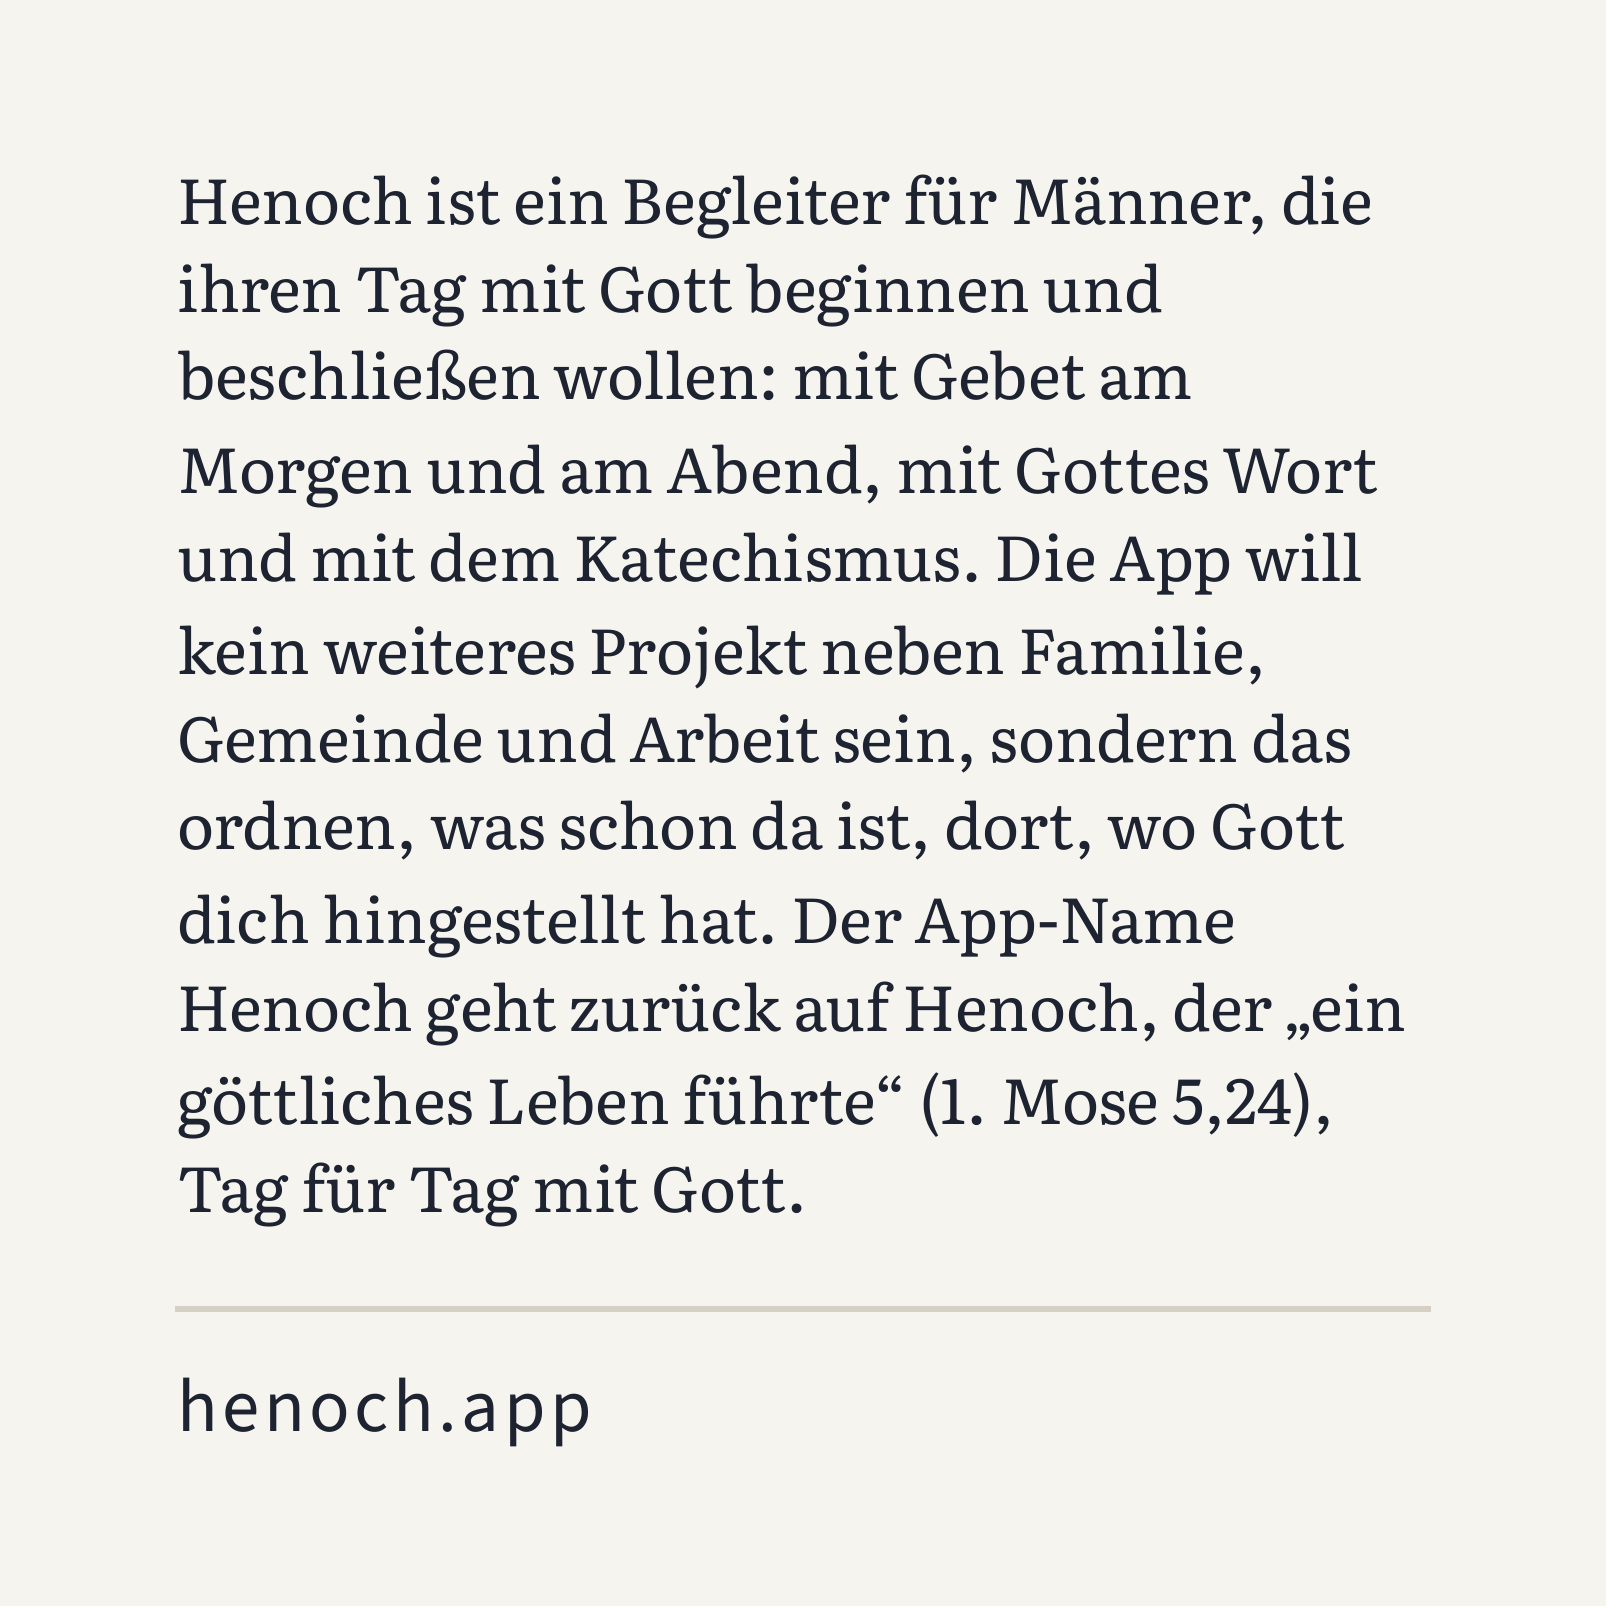
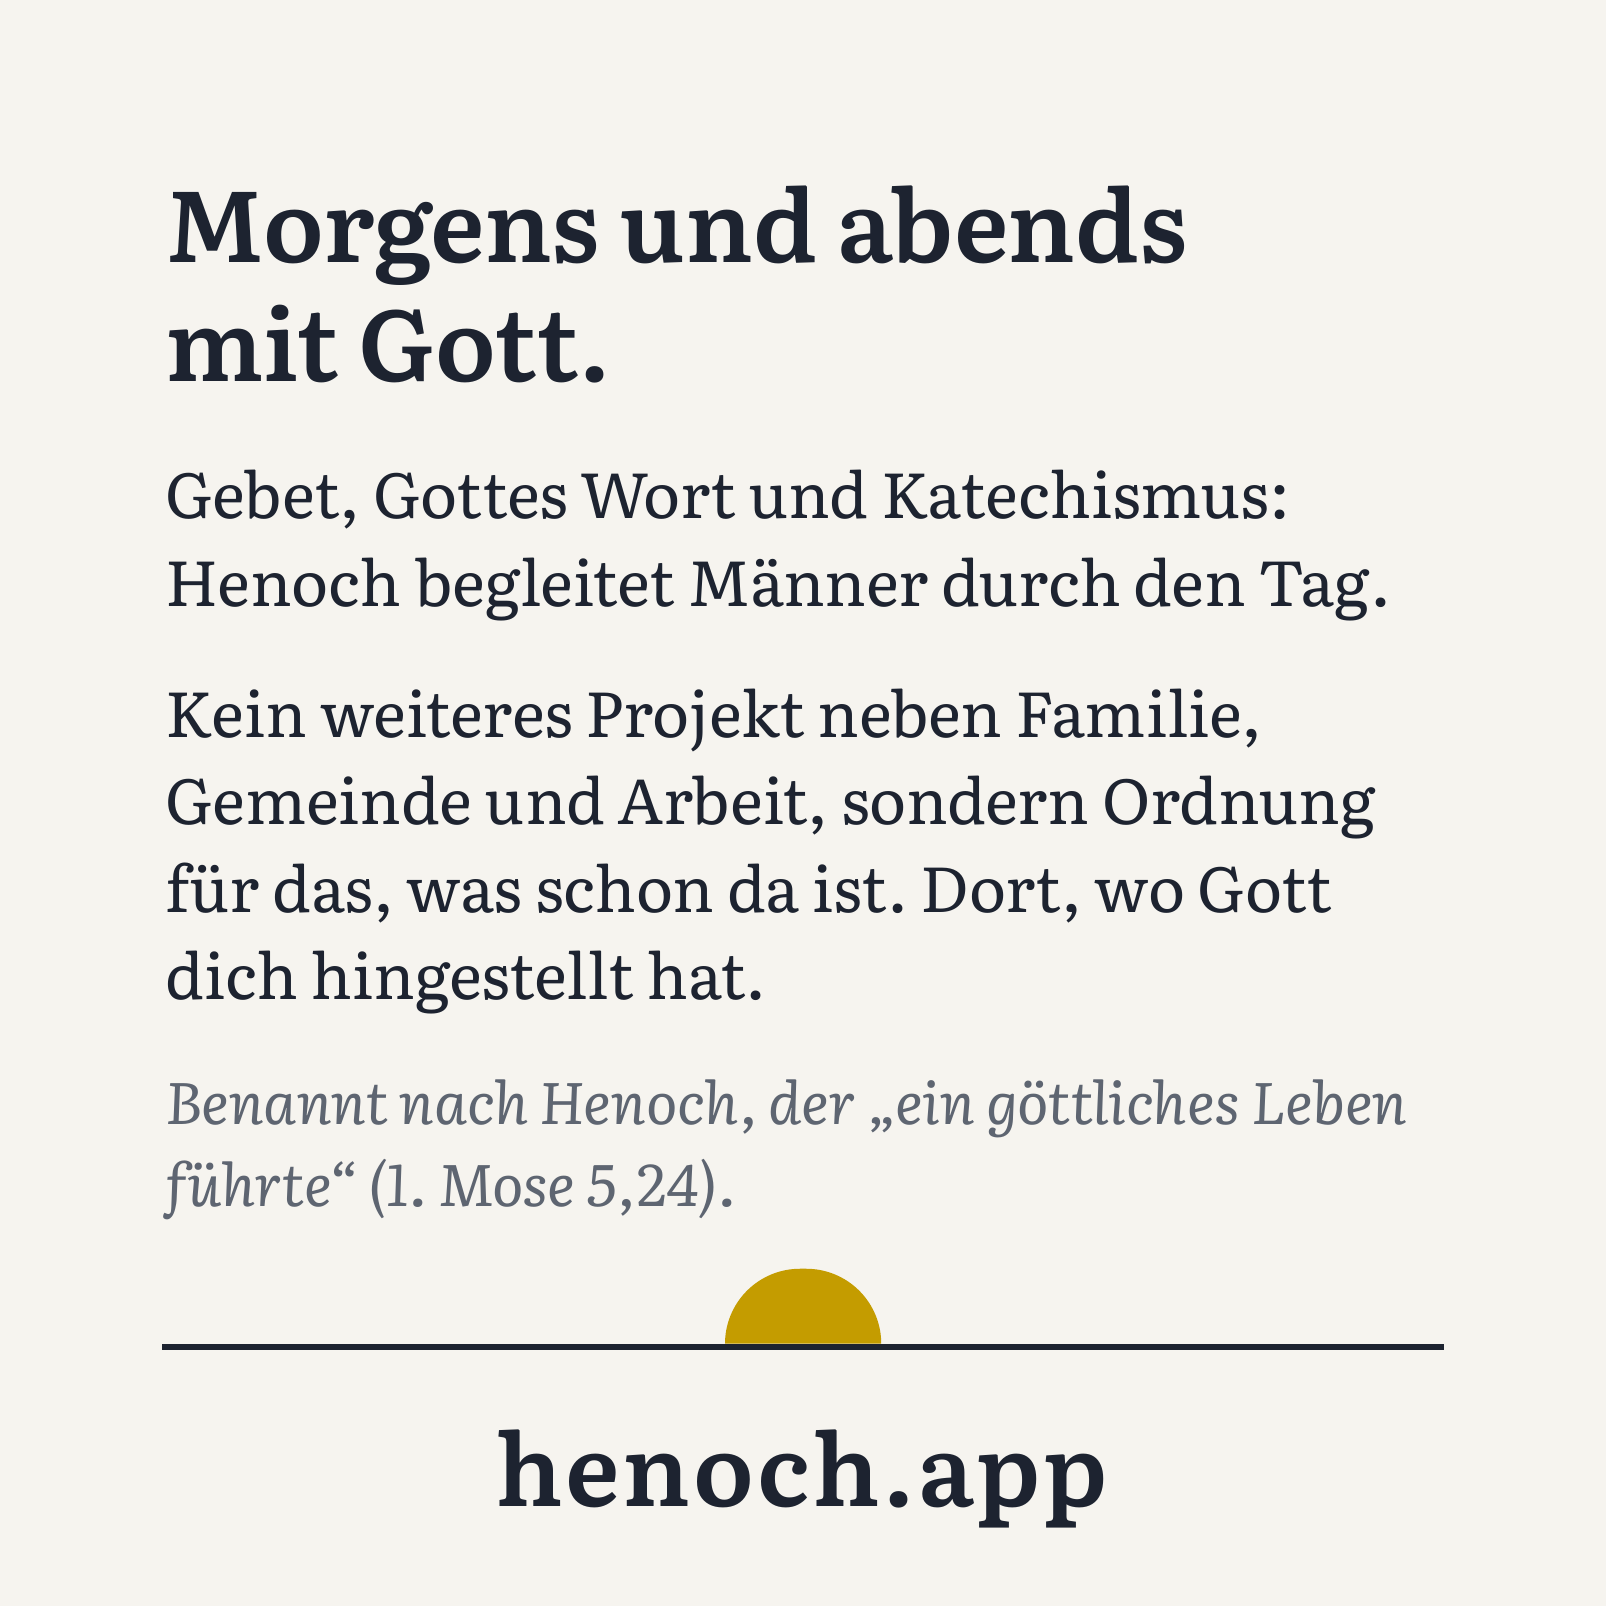
Visitenkarte: Rückseite mit Text neu gefasst, Adresse unter Horizont und Sonne
Claude-Session: https://claude.ai/code/session_01JETNZ2BbFd9PaqHXcpm5eH

Changed region(s): [[0.0933, 0.2799, 0.9017, 0.8396], [0.0933, 0.0933, 0.8396, 0.2488], [0.1244, 0.8706, 0.6841, 0.9639]]

diff --git a/docs/visitenkarte/visitenkarte.html b/docs/visitenkarte/visitenkarte.html
@@ -6,6 +6,7 @@
 <title>Henoch Visitenkarte</title>
 <style>
 /* Square business card for Vistaprint: 65 × 65 mm trim with 1.5 mm bleed on every side. Page 1 is the front, page 2 the back. */
+@font-face { font-family: 'Literata'; font-style: italic; font-weight: 400; src: url('../anleitung/fonts/literata-latin-400-italic.woff2') format('woff2'); }
 @font-face { font-family: 'Literata'; font-style: normal; font-weight: 400; src: url('../anleitung/fonts/literata-latin-400-normal.woff2') format('woff2'); }
 @font-face { font-family: 'Literata'; font-style: normal; font-weight: 600; src: url('../anleitung/fonts/literata-latin-600-normal.woff2') format('woff2'); }
 @font-face { font-family: 'Source Sans 3'; font-style: normal; font-weight: 400; src: url('../anleitung/fonts/source-sans-3-latin-400-normal.woff2') format('woff2'); }
@@ -41,9 +42,15 @@ body { display: flex; flex-wrap: wrap; gap: 10mm; padding: 10mm; justify-content
 .title { position: absolute; top: calc(var(--bleed) + 7mm); left: 0; right: 0; text-align: center; }
 .name { font-family: 'Literata', Georgia, serif; font-weight: 600; font-size: 22.5pt; letter-spacing: 0.02em; line-height: 1; }
 .motto { font-family: 'Literata', Georgia, serif; font-size: 11pt; color: var(--ink); margin-top: 2.4mm; line-height: 1; }
-/* Alternative back: a short description of Henoch, the address beneath it. */
-.about { width: calc(var(--trim) - 12mm); font-family: 'Literata', Georgia, serif; font-size: 7.6pt; line-height: 1.42; text-align: left; hyphens: auto; -webkit-hyphens: auto; margin: 0; }
-.about-url { width: calc(var(--trim) - 12mm); border-top: 0.2mm solid var(--rule); padding-top: 2.6mm; margin-top: 3.2mm; text-align: left; font-family: 'Source Sans 3', Helvetica, Arial, sans-serif; font-size: 9pt; letter-spacing: 0.06em; line-height: 1; }
+/* Alternative back: headline, two short paragraphs, then the address under the icon's horizon and sun. */
+.back-text { justify-content: flex-start; align-items: stretch; padding: calc(var(--bleed) + 5.5mm) calc(var(--bleed) + 5.5mm) calc(var(--bleed) + 5mm); }
+.pitch { margin-bottom: 2.2mm; font-family: 'Literata', Georgia, serif; hyphens: auto; -webkit-hyphens: auto; }
+.pitch h2 { font-weight: 600; font-size: 12pt; line-height: 1.15; margin: 0 0 2.4mm; }
+.pitch p { font-size: 7.6pt; line-height: 1.4; margin: 0 0 1.6mm; }
+.pitch .source { font-style: italic; color: var(--muted); font-size: 7pt; margin: 0; }
+.horizon { margin-top: auto; flex: none; position: relative; height: 3.2mm; border-bottom: 0.35mm solid var(--ink); }
+.horizon::after { content: ''; position: absolute; left: 50%; bottom: 0; width: 6.4mm; height: 3.2mm; margin-left: -3.2mm; border-radius: 3.2mm 3.2mm 0 0; background: var(--gold); }
+.site { text-align: center; font-family: 'Literata', Georgia, serif; font-weight: 600; font-size: 12pt; letter-spacing: 0.03em; line-height: 1; margin-top: 2.6mm; }
 /* Back: QR code to the website, the address beneath it. */
 .qr { width: 30mm; height: 30mm; display: block; }
 .url { font-family: 'Source Sans 3', Helvetica, Arial, sans-serif; font-size: 11pt; letter-spacing: 0.06em; color: var(--ink); margin-top: 5.3mm; line-height: 1; }
@@ -97,9 +104,15 @@ body { display: flex; flex-wrap: wrap; gap: 10mm; padding: 10mm; justify-content
   <div class="url">henoch.app</div>
 </section>
 
-<section class="card" aria-label="Rückseite mit Text">
-  <p class="about">Henoch ist ein Begleiter für Männer, die ihren Tag mit Gott beginnen und beschließen wollen: mit Gebet am Morgen und am Abend, mit Gottes Wort und mit dem Katechismus. Die App will kein weiteres Projekt neben Familie, Gemeinde und Arbeit sein, sondern das ordnen, was schon da ist, dort, wo Gott dich hingestellt hat. Der App-Name Henoch geht zurück auf Henoch, der „ein göttliches Leben führte“ (1.&nbsp;Mose&nbsp;5,24), Tag für Tag mit Gott.</p>
-  <div class="about-url">henoch.app</div>
+<section class="card back-text" aria-label="Rückseite mit Text">
+  <div class="pitch">
+    <h2>Morgens und abends mit&nbsp;Gott.</h2>
+    <p>Gebet, Gottes Wort und Katechismus: Henoch begleitet Männer durch den Tag.</p>
+    <p>Kein weiteres Projekt neben Familie, Gemeinde und Arbeit, sondern Ordnung für das, was schon da ist. Dort, wo Gott dich hingestellt hat.</p>
+    <p class="source">Benannt nach Henoch, der „ein göttliches Leben führte“ (1.&nbsp;Mose&nbsp;5,24).</p>
+  </div>
+  <div class="horizon" aria-hidden="true"></div>
+  <div class="site">henoch.app</div>
 </section>
 
 </body>

diff --git a/docs/visitenkarte/LIESMICH.md b/docs/visitenkarte/LIESMICH.md
@@ -4,7 +4,7 @@ Quadratische Visitenkarte für Vistaprint, 65 × 65 mm, mit 1,5 mm Anschnitt an 
 
 - **Vorderseite:** das Bild des App-Symbols randlos über die ganze Fläche in den Farben des Symbols wie auf der Homepage, darin „Henoch“ und „Mit Gott durch den Tag.“; die Farben stehen oben in `.front`
 - **Rückseite:** QR-Code zu https://henoch.app/ und darunter die Adresse
-- **Rückseite mit Text (Alternative):** ein kurzer Text über Henoch und darunter die Adresse
+- **Rückseite mit Text (Alternative):** Überschrift, kurzer Text über Henoch, darunter Horizont und Sonne aus dem Symbol und die Adresse
 
 Dateien:
 
